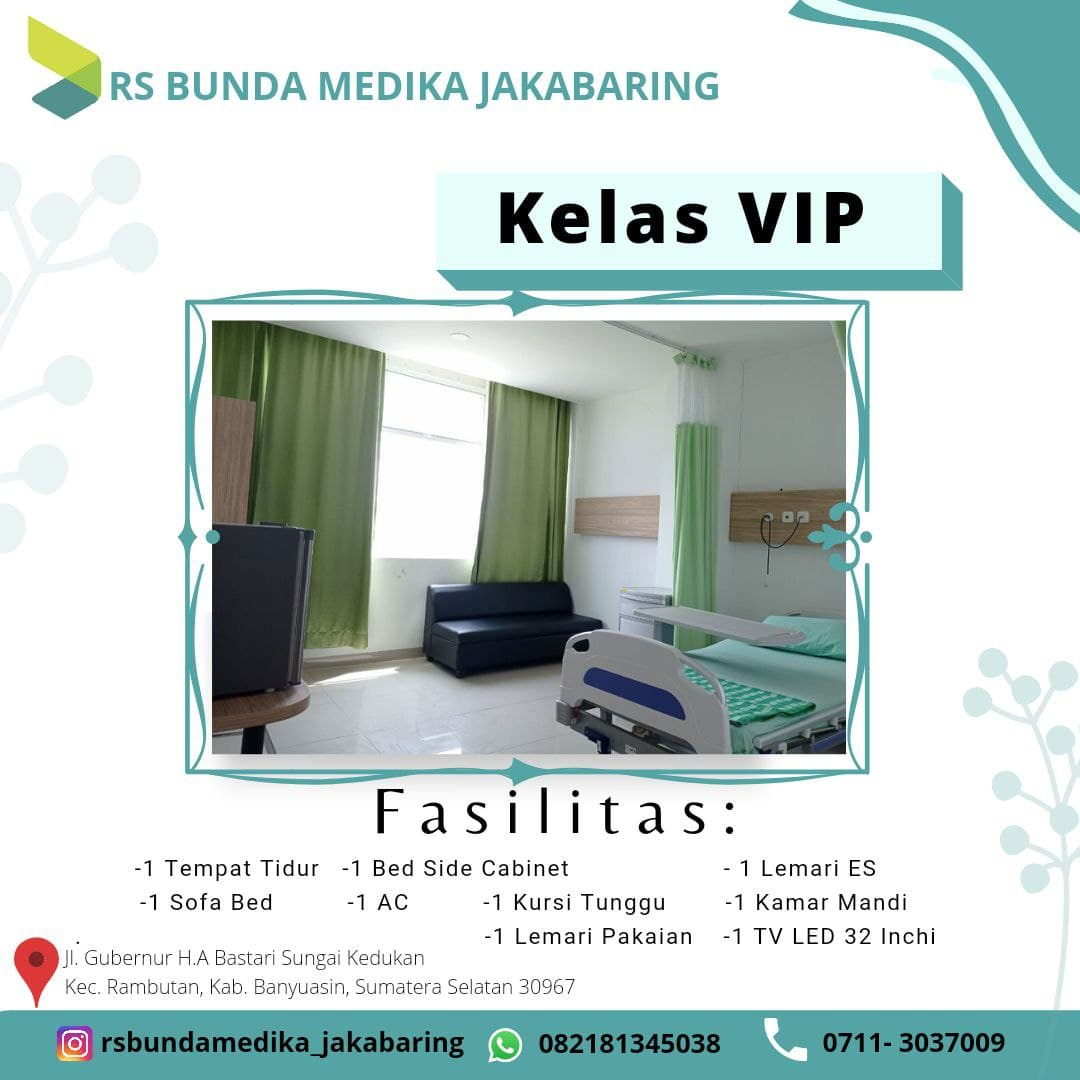
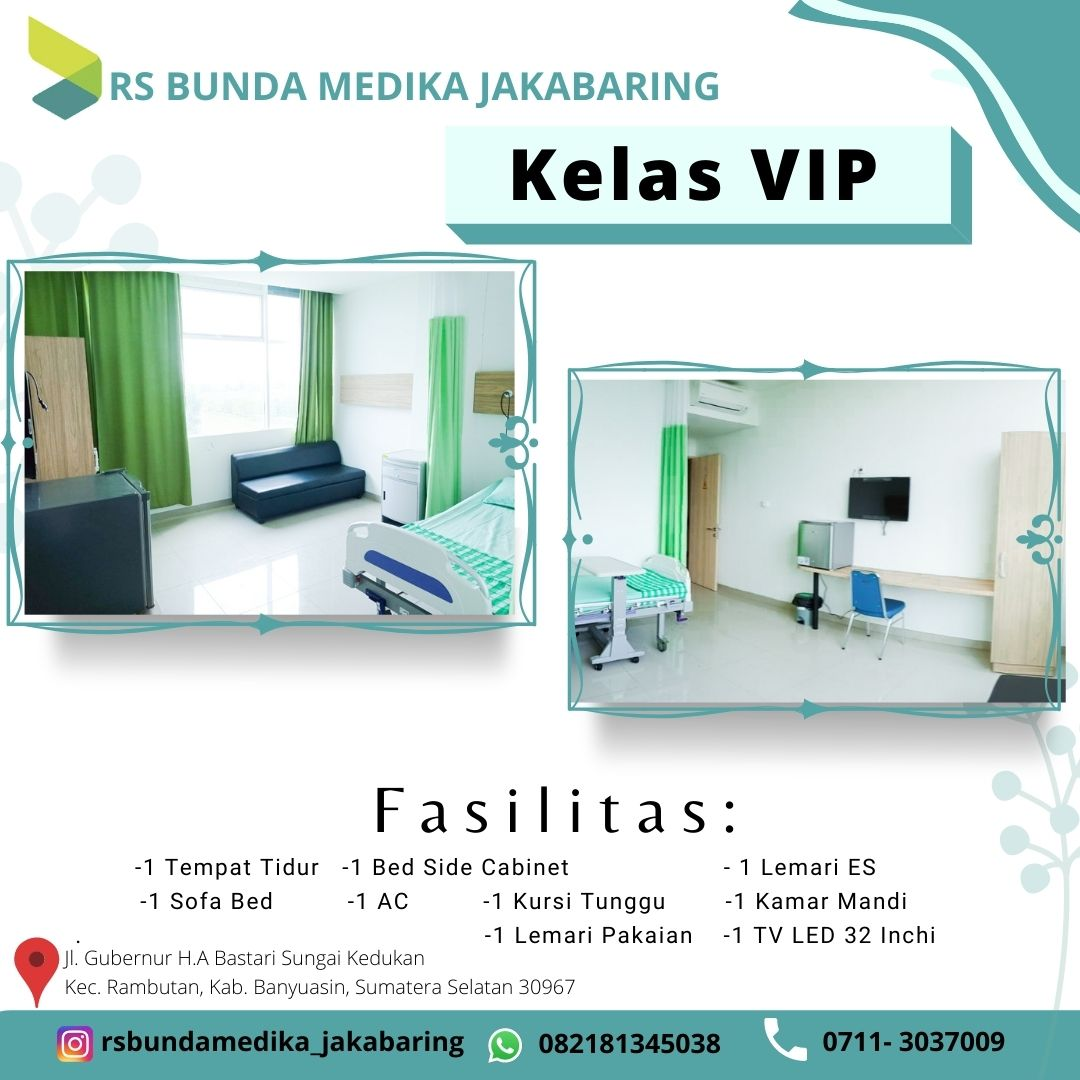
add about RS

diff --git a/pages/listabout.php b/pages/listabout.php
@@ -8,63 +8,6 @@
     $blnbesok               = substr($besok,5,2);
     $tglbesok               = substr($besok,8,2);
 ?>
- <section id="home" class="slider" data-stellar-background-ratio="0.5">
-      <div class="container">
-           <div class="row">
-                 <div class="owl-carousel owl-theme">
-                      <div class="item item-first">
-                           <div class="caption">
-                                <div class="col-md-offset-1 col-md-10">
-                                     <h3>Mari buat hidupmu lebih bahagia</h3>
-                                     <h1>Hidup Sehat</h1>
-                                     <a href="#team" class="section-btn btn btn-default smoothScroll">Temui Dokter Kami</a>
-                                </div>
-                           </div>
-                      </div>
-                      <div class="item item-second">
-                           <div class="caption">
-                                <div class="col-md-offset-1 col-md-10">
-                                     <h3>Kami usahakan yang terbaik untuk Anda</h3>
-                                     <h1>Jadikan Kami Sahabat Anda</h1>
-                                     <a href="#about" class="section-btn btn btn-default btn-gray smoothScroll">Lebih Banyak Tentang Kami</a>
-                                </div>
-                           </div>
-                      </div>
-                      <div class="item item-third">
-                           <div class="caption">
-                                <div class="col-md-offset-1 col-md-10">
-                                     <h3>Jangan sampai waktu anda bersama keluarga menjadi terganggu</h3>
-                                     <h1>Manfaatkan Kesehatan Anda</h1>
-                                     <a href="#news" class="section-btn btn btn-default btn-blue smoothScroll">Lihat Jadwal Dokter</a>
-                                </div>
-                           </div>
-                      </div>
-                      <!-- informasi poli -->
-                      <div class="item item-fourth">
-                           <div class="caption">
-                                <div class="col-md-offset-1 col-md-10">
-                                     <h3>Anda Mengalami Keluhan Sakit, Datang Saja Kesini</h3>
-                                     <h1>Poliklinik Kami</h1>
-                                     <a href="#poli" class="section-btn btn btn-blue btn-default smoothScroll">Lihat Poliklinik</a>
-                                </div>
-                           </div>
-                      </div>
-
-                      <!-- informasi kamar -->
-                      <div class="item item-fifth">
-                           <div class="caption">
-                                <div class="col-md-offset-1 col-md-10">
-                                     <h3>Kenyamanan Anda Merupakan Kebanggaan Bagi Kami</h3>
-                                     <h1>Fasilitas Kamar Inap</h1>
-                                     <a href="#ranap" class="section-btn btn btn-warning btn-default smoothScroll">Lihat Kamar Inap</a>
-                                </div>
-                           </div>
-                      </div>
-
-                 </div>
-           </div>
-      </div>
- </section>
 
  <!-- ABOUT -->
  <section id="about">
@@ -282,17 +225,17 @@
 
                     <div class='col-md-6 col-sm-6' style="margin-bottom: 30px;">
                          <div class='team-thumb wow fadeInUp' style="background-color: #a5c422">
-                              <img alt='Photo' src='images/kelas1.jpg' class='img-responsive' style="padding:5px"/>
+                              <img alt='Photo' src='images/vip.jpg' class='img-responsive' style="padding:5px"/>
                          </div>
                     </div>
                     <div class='col-md-6 col-sm-6' style="margin-bottom: 20px;">
                          <div class='team-thumb wow fadeInUp' style="background-color: #a5c422">
-                              <img alt='Photo' src='images/kelas2.jpg' class='img-responsive' style="padding:5px"/>
+                              <img alt='Photo' src='images/vip.jpg' class='img-responsive' style="padding:5px"/>
                          </div>
                     </div>
                     <div class='col-md-6 col-sm-6' style="margin-bottom: 20px;">
                          <div class='team-thumb wow fadeInUp' style="background-color: #a5c422">
-                              <img alt='Photo' src='images/kelas3.jpg' class='img-responsive' style="padding:5px"/>
+                              <img alt='Photo' src='images/vip.jpg' class='img-responsive' style="padding:5px"/>
                          </div>
                     </div>
                     

diff --git a/conf/command.php b/conf/command.php
@@ -63,6 +63,7 @@
                 case "DokterKami"                              : include_once("pages/listsemuadokter.php"); break;
                 case "ListPoli"                                : include_once("pages/listpoli2.php"); break;
                 case "ListRanap"                               : include_once("pages/listranap.php"); break;
+                case "ListAbout"                               : include_once("pages/listabout.php"); break;
                 case "FasilitasKamar"                          : include_once("pages/listkamar.php"); break;
                 case "FasilitasRadiologi"                      : include_once("pages/listradiologi.php"); break;
                 case "FasilitasLaborat"                        : include_once("pages/listlaborat.php"); break;
